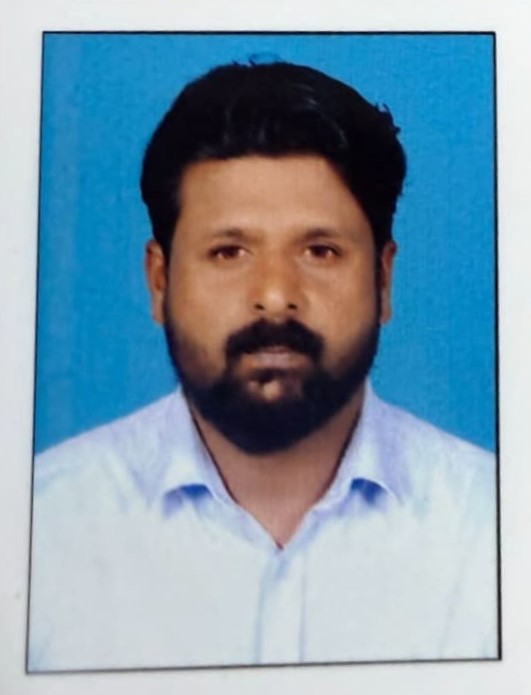
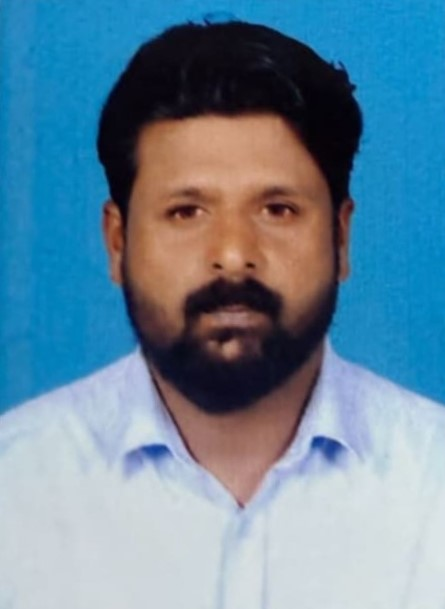
Employees: reorder by hierarchy, remove Malayalam text, highlight owner card

diff --git a/src/pages/Employees.jsx b/src/pages/Employees.jsx
@@ -1,6 +1,6 @@
 import React from 'react';
 import { motion } from 'framer-motion';
-import { Phone } from 'lucide-react';
+import { Phone, Crown } from 'lucide-react';
 
 // WhatsApp SVG icon (inline, matching brand style)
 function WhatsAppIcon({ className }) {
@@ -17,139 +17,118 @@ function WhatsAppIcon({ className }) {
   );
 }
 
-// Employee data array
+// Employee data array — ordered by hierarchy
 const employees = [
   {
     id: 1,
-    name: 'Faisal P',
-    malayalam: 'ഫൈസൽ പി',
-    department: 'Wholesale Department',
-    departmentMl: 'ഹോൾസെയിൽ ഡിപ്പാർട്ട്മെന്റ്',
-    phone: '+971 55 204 0816',
-    telLink: 'tel:+971552040816',
-    whatsapp: 'https://wa.me/971552040816',
-    photo: '/images/Faisal P.jpg',
-  },
-  {
-    id: 2,
-    name: 'Viswan P',
-    malayalam: 'വിശ്വൻ പി',
-    department: 'Detes Department',
-    departmentMl: 'ഡീറ്റെസ് ഡിപ്പാർട്ട്മെന്റ്',
-    phone: '+971 50 173 8519',
-    telLink: 'tel:+971501738519',
-    whatsapp: 'https://wa.me/971501738519',
-    photo: '/images/Viswan P.jpg',
-  },
-  {
-    id: 3,
-    name: 'Nisarudheen',
-    malayalam: 'നിസാറുദ്ദീൻ',
-    department: 'Charcoal Department',
-    departmentMl: 'ചാർക്കോൾ ഡിപ്പാർട്ട്മെന്റ്',
-    phone: '+971 55 517 1107',
-    telLink: 'tel:+971555171107',
-    whatsapp: 'https://wa.me/971555171107',
-    photo: '/images/Nisarudheen.jpg',
-  },
-  {
-    id: 4,
-    name: 'Jashid',
-    malayalam: 'ജാഷിദ്',
-    department: 'Vegetable Department',
-    departmentMl: 'വെജിറ്റബിൾ ഡിപ്പാർട്ട്മെന്റ്',
-    phone: '+971 55 538 9886',
-    telLink: 'tel:+971555389886',
-    whatsapp: 'https://wa.me/971555389886',
-    photo: '/images/Jashid.jpg',
-  },
-  {
-    id: 5,
-    name: 'Faisal Ahmed',
-    malayalam: 'ഫൈസൽ അഹമ്മദ്',
-    department: 'Disposable Items Department',
-    departmentMl: 'ഡിസ്പോസിബിൾ ഐറ്റംസ് ഡിപ്പാർട്ട്മെന്റ്',
-    phone: '+971 55 606 8049',
-    telLink: 'tel:+971556068049',
-    whatsapp: 'https://wa.me/971556068049',
-    photo: '/images/Faisal Ahmed.jpg',
-  },
-  {
-    id: 6,
     name: 'Babu Milano',
-    malayalam: null,
+    position: 'Owner / Managing Director',
     department: 'Gas Items & Household Items Sales',
-    departmentMl: 'ഗ്യാസ് ഐറ്റംസ് & ഹൗസ്ഹോൾഡ് ഐറ്റംസ് സെയിൽസ്',
     phone: '050 757 4271',
     telLink: 'tel:+971507574271',
     whatsapp: 'https://wa.me/971507574271',
     photo: '/images/Babu Milano.jpg',
+    isOwner: true,
   },
   {
-    id: 7,
+    id: 2,
     name: 'Shafeeq',
-    malayalam: 'ഷെഫീഖ്',
+    position: 'Accountant',
     department: 'Accountant',
-    departmentMl: 'അക്കൗണ്ടന്റ്',
     phone: '+971 52 143 7774',
     telLink: 'tel:+971521437774',
     whatsapp: 'https://wa.me/971521437774',
     photo: '/images/Shafeeq.jpg',
   },
   {
-    id: 8,
-    name: 'Tajudheen',
-    malayalam: 'താജുദ്ദീൻ',
-    department: 'Pickle Department',
-    departmentMl: 'പിക്കൾ ഡിപ്പാർട്ട്മെന്റ്',
-    phone: '+971 55 857 2879',
-    telLink: 'tel:+971558572879',
-    whatsapp: 'https://wa.me/971558572879',
-    photo: '/images/Tajudheen.jpg',
+    id: 3,
+    name: 'Faisal P',
+    department: 'Wholesale Department',
+    phone: '+971 55 204 0816',
+    telLink: 'tel:+971552040816',
+    whatsapp: 'https://wa.me/971552040816',
+    photo: '/images/Faisal P.jpg',
   },
   {
-    id: 9,
+    id: 4,
     name: 'Faisal V',
-    malayalam: 'ഫൈസൽ വി',
     department: 'Vegetable Department',
-    departmentMl: 'വെജിറ്റബിൾ',
     phone: '+971 55 435 3277',
     telLink: 'tel:+971554353277',
     whatsapp: 'https://wa.me/971554353277',
     photo: '/images/Faisal V.jpg',
   },
   {
-    id: 10,
+    id: 5,
+    name: 'Muthalib',
+    department: 'Vegetable Department',
+    phone: '+971 50 205 9405',
+    telLink: 'tel:+971502059405',
+    whatsapp: 'https://wa.me/971502059405',
+    photo: '/images/Muthalib.jpg',
+  },
+  {
+    id: 6,
+    name: 'Jashid',
+    department: 'Vegetable Department',
+    phone: '+971 55 538 9886',
+    telLink: 'tel:+971555389886',
+    whatsapp: 'https://wa.me/971555389886',
+    photo: '/images/Jashid.jpg',
+  },
+  {
+    id: 7,
+    name: 'Faisal Ahmed',
+    department: 'Disposable Items Department',
+    phone: '+971 55 606 8049',
+    telLink: 'tel:+971556068049',
+    whatsapp: 'https://wa.me/971556068049',
+    photo: '/images/Faisal Ahmed.jpg',
+  },
+  {
+    id: 8,
     name: 'Ibrahim',
-    malayalam: 'ഇബ്രാഹിം',
     department: 'Disposable Items',
-    departmentMl: 'ഡിസ്പോസിബിൾ ഐറ്റംസ്',
     phone: '+971 58 193 5339',
     telLink: 'tel:+971581935339',
     whatsapp: 'https://wa.me/971581935339',
     photo: '/images/Ibrahim.jpg',
   },
   {
-    id: 11,
+    id: 9,
     name: 'Muhsin',
-    malayalam: 'മുഹ്സിൻ',
     department: 'Disposable',
-    departmentMl: 'ഡിസ്പോസിബിൾ',
     phone: '+971 52 535 0247',
     telLink: 'tel:+971525350247',
     whatsapp: 'https://wa.me/971525350247',
     photo: '/images/Muhsin.jpg',
   },
   {
+    id: 10,
+    name: 'Tajudheen',
+    department: 'Pickle Department',
+    phone: '+971 55 857 2879',
+    telLink: 'tel:+971558572879',
+    whatsapp: 'https://wa.me/971558572879',
+    photo: '/images/Tajudheen.jpg',
+  },
+  {
+    id: 11,
+    name: 'Nisarudheen',
+    department: 'Charcoal Department',
+    phone: '+971 55 517 1107',
+    telLink: 'tel:+971555171107',
+    whatsapp: 'https://wa.me/971555171107',
+    photo: '/images/Nisarudheen.jpg',
+  },
+  {
     id: 12,
-    name: 'Muthalib',
-    malayalam: 'മുത്തലിബ്',
-    department: 'Vegetable Department',
-    departmentMl: 'വെജിറ്റബിൾ',
-    phone: '+971 50 205 9405',
-    telLink: 'tel:+971502059405',
-    whatsapp: 'https://wa.me/971502059405',
-    photo: '/images/Muthalib.jpg',
+    name: 'Viswan P',
+    department: 'Detes Department',
+    phone: '+971 50 173 8519',
+    telLink: 'tel:+971501738519',
+    whatsapp: 'https://wa.me/971501738519',
+    photo: '/images/Viswan P.jpg',
   },
 ];
 
@@ -174,16 +153,36 @@ function AvatarFallback({ name }) {
 
 // Individual employee card
 function EmployeeCard({ employee, index }) {
+  const isOwner = employee.isOwner === true;
+
   return (
     <motion.article
       initial={{ opacity: 0, y: 20 }}
       whileInView={{ opacity: 1, y: 0 }}
       viewport={{ once: true }}
       transition={{ duration: 0.4, delay: index * 0.06 }}
-      className="group relative bg-white border border-brand-border/60 rounded-2xl overflow-hidden shadow-ambient hover:shadow-ambient-hover hover:-translate-y-1.5 transition-all duration-300 flex flex-col"
+      className={
+        isOwner
+          ? 'group relative rounded-2xl overflow-hidden shadow-lg flex flex-col border-2 border-brand-blue/30 bg-gradient-to-b from-brand-blue/5 to-white hover:shadow-xl hover:-translate-y-1.5 transition-all duration-300'
+          : 'group relative bg-white border border-brand-border/60 rounded-2xl overflow-hidden shadow-ambient hover:shadow-ambient-hover hover:-translate-y-1.5 transition-all duration-300 flex flex-col'
+      }
     >
       {/* Top accent line */}
-      <div className="absolute top-0 left-0 right-0 h-0.5 bg-gradient-to-r from-brand-blue to-brand-cyan opacity-0 group-hover:opacity-100 transition-opacity duration-300" />
+      <div
+        className={
+          isOwner
+            ? 'absolute top-0 left-0 right-0 h-1 bg-gradient-to-r from-brand-blue to-brand-cyan'
+            : 'absolute top-0 left-0 right-0 h-0.5 bg-gradient-to-r from-brand-blue to-brand-cyan opacity-0 group-hover:opacity-100 transition-opacity duration-300'
+        }
+      />
+
+      {/* Owner badge */}
+      {isOwner && (
+        <div className="absolute top-3 right-3 z-10 flex items-center gap-1 bg-brand-blue text-white text-[0.6rem] font-bold uppercase tracking-wider px-2.5 py-1 rounded-full shadow-md">
+          <Crown className="w-2.5 h-2.5 shrink-0" />
+          Owner
+        </div>
+      )}
 
       {/* Photo area — portrait ratio so full body is visible */}
       <div className="relative w-full aspect-[3/4] overflow-hidden bg-brand-alt">
@@ -208,10 +207,10 @@ function EmployeeCard({ employee, index }) {
           {employee.name}
         </h3>
 
-        {/* Malayalam name (secondary) */}
-        {employee.malayalam && (
-          <p className="font-ml text-[0.7rem] text-brand-textMuted mt-0.5 leading-tight">
-            {employee.malayalam}
+        {/* Position label (Owner / Accountant) */}
+        {employee.position && (
+          <p className="text-[0.7rem] font-semibold text-brand-blue mt-0.5 leading-tight">
+            {employee.position}
           </p>
         )}
 
@@ -220,11 +219,6 @@ function EmployeeCard({ employee, index }) {
           <span className="inline-block px-3 py-1 rounded-full text-[0.65rem] font-semibold uppercase tracking-wider text-brand-blue bg-brand-blue/6 border border-brand-blue/10">
             {employee.department}
           </span>
-          {employee.departmentMl && (
-            <p className="font-ml text-[0.65rem] text-brand-textMuted mt-1.5 leading-tight">
-              {employee.departmentMl}
-            </p>
-          )}
         </div>
 
         {/* Spacer */}